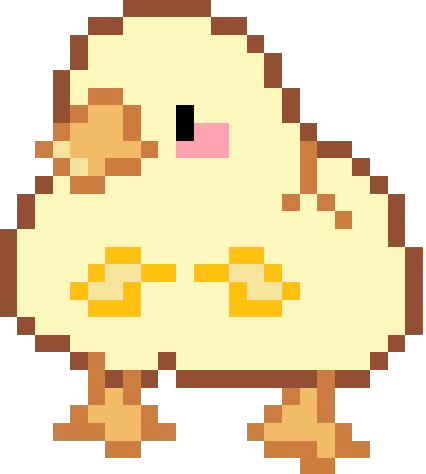
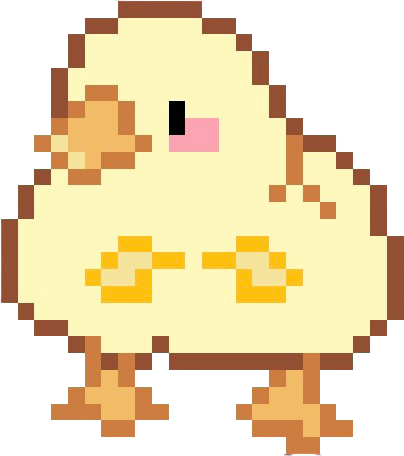
finished pg4

diff --git a/src/index.css b/src/index.css
@@ -19,6 +19,10 @@ body.pg2{
 body.pg3{
   background-color: #99d9ea;
 }
+
+body.pg4{
+  background-color: #F6AD78;
+}
 .window{
   z-index:10;
 }
@@ -149,6 +153,22 @@ body.pg3{
   text-align: center; /* Ensures text inside is also centered */
 }
 
+#opening-gift-label4 {
+  position: absolute;
+  display: none;
+  top: 190px;
+  left: 50%;
+  transform: translateX(-50%);
+  font-family: 'Pixelify Sans', sans-serif;
+  font-size: 25px;
+  width: 250px;
+  word-wrap: break-word; 
+  white-space: normal;
+  text-align: center; /* Ensures text inside is also centered */
+}
+
+
+
 #bday-ma-label {
   position: absolute;
   display: block;
@@ -161,6 +181,33 @@ body.pg3{
   width: 300px;
   text-align: center; /* Ensures text inside is also centered */
 }
+
+#pg4-label1 {
+  position: absolute;
+  display: block;
+  top: 55px;
+  left: 51%;
+  transform: translateX(-50%);
+  font-family: 'Pixelify Sans', sans-serif;
+  font-size: 35px;
+  font-weight: bold;
+  width: 350px;
+  text-align: center; /* Ensures text inside is also centered */
+}
+
+#pg4-label2 {
+  position: absolute;
+  display: none;
+  top: 55px;
+  left: 51%;
+  transform: translateX(-50%);
+  font-family: 'Pixelify Sans', sans-serif;
+  font-size: 35px;
+  font-weight: bold;
+  width: 350px;
+  text-align: center; /* Ensures text inside is also centered */
+}
+
 
 #next2 {
   position: absolute;
@@ -207,6 +254,30 @@ body.pg3{
   font-size: 25px;
   transition: transform 0.2s ease-in-out;
  
+}
+
+#pg4-gift {
+  position: absolute;
+  top: 190px;
+  left: 50%;
+  transform: translateX(-50%);
+  background-color: #B0305CFF;
+  border: 1px solid #000000;
+  border-radius:1ch;
+  border-width: 1mm;
+  color: black;
+  padding: 5px 25px;
+  cursor: pointer;
+  font-family: 'Pixelify Sans', sans-serif;
+  font-size: 25px;
+  transition: opacity 0.5s ease-in-out, transform 0.3s ease-in-out;
+  opacity: 0;  /* Initially hidden */
+}
+
+#pg4-gift.show {
+  opacity: 1;
+  transform: translateX(-50%) scale(1.1); /* Slight zoom effect */
+  pointer-events: auto; /* Enable clicks when visible */
 }
 
 .pulsing {
@@ -270,9 +341,10 @@ body.pg3{
 
 @keyframes bigChickAnimation {
   0%   { content: url("./assets/start/bigchick/bigchick1.png"); opacity: 1;}
-  25%  { content: url("./assets/start/bigchick/bigchick2.png"); opacity: 1;}
-  50%   { content: url("./assets/start/bigchick/bigchick3.png"); opacity: 1;}
-  75%  { content: url("./assets/start/bigchick/bigchick5.png"); opacity: 1;}
+  20%  { content: url("./assets/start/bigchick/bigchick2.png"); opacity: 1;}
+  40%   { content: url("./assets/start/bigchick/bigchick3.png"); opacity: 1;}
+  60%  { content: url("./assets/start/bigchick/bigchick4.png"); opacity: 1;}
+  80%  { content: url("./assets/start/bigchick/bigchick5.png"); opacity: 1;}
   100%  { content: url("./assets/start/bigchick/bigchick1.png"); opacity: 1;}
 
 }
@@ -353,6 +425,8 @@ body.pg3{
 
 }
 
+
+
 @keyframes giftOpeningAnimation {
   0%   { content: url("./assets/pg2/giftbox/gift1.png"); opacity: 1;}
   25%  { content: url("./assets/pg2/giftbox/gift2.png"); opacity: 1;}
@@ -363,7 +437,29 @@ body.pg3{
 
 
 
+#snoopy-animation {
+  width: 250px;  
+  height: 200px;
+  position: absolute;
+  bottom: 50px;
+  left: 2px;
+  animation: snoopyWalk 3s steps(5) infinite, moveForward 10s linear forwards;
+  opacity: 1;
+}
 
+@keyframes snoopyWalk {
+  0%   { content: url("./assets/pg4/snoopy/snoopy1.png"); }
+  25%  { content: url("./assets/pg4/snoopy/snoopy2.png"); }
+  50%  { content: url("./assets/pg4/snoopy/snoopy3.png"); }
+  75%  { content: url("./assets/pg4/snoopy/snoopy4.png"); }
+  100% { content: url("./assets/pg4/snoopy/snoopy1.png"); }
+}
+
+@keyframes moveForward {
+  0% { left: 1%; opacity: 1; }
+  90% { opacity: 1; } /* Keeps Snoopy visible until near the end */
+  100% { left: 80%; opacity: 0; } /* Fades out at the end */
+}
 
 #next-btn {
   position: absolute;
@@ -417,13 +513,38 @@ body.pg3{
   pointer-events: auto; /* Enable clicks when visible */
 }
 
-#next4{
+/* #next5{
   position: absolute;
   top:30px;
   left:10px;
+} */
+
+#next5 {
+  position: absolute;
+  top: 250px;
+  left: 50%;
+  transform: translateX(-50%);
+  background-color: #B0305CFF;
+  border: 1px solid #000000;
+  border-width: 1mm;
+  border-radius:1ch;
+  color: black;
+  padding: 5px 25px;
+  cursor: pointer;
+  font-family: 'Pixelify Sans', sans-serif;
+  font-size: 25px;
+  transition: opacity 0.5s ease-in-out, transform 0.3s ease-in-out;
+  opacity: 0;  /* Initially hidden */
+  pointer-events: none; /* Prevent clicks when hidden */
 }
 
-#go-back2{
+#next5.show {
+  opacity: 1;
+  transform: translateX(-50%) scale(1.1); /* Slight zoom effect */
+  pointer-events: auto; /* Enable clicks when visible */
+}
+
+#go-back3{
   position: absolute;
   top:10px;
   left:10px;

diff --git a/src/render.js b/src/render.js
@@ -8,9 +8,13 @@ document.addEventListener('DOMContentLoaded', async () => {
 
     const next3 = document.getElementById("next3");
     const next4 = document.getElementById("next4-btn");
+    const next5 = document.getElementById("next5")
+    const next6 = document.getElementById("next6")
     const goBack1 = document.getElementById("go-back1");
     const goBack2 = document.getElementById("go-back2");
     const goBack3 = document.getElementById("go-back3");
+    const goBack4 = document.getElementById("go-back4");
+
     const giftButton = document.getElementById("pg2-gift");
     const giftLabel = document.getElementById("opening-gift-label");
 
@@ -44,14 +48,23 @@ document.addEventListener('DOMContentLoaded', async () => {
         "./assets/start/bigchick/bigchick1.png",
         "./assets/start/bigchick/bigchick2.png",
         "./assets/start/bigchick/bigchick3.png",
+        "./assets/start/bigchick/bigchick4.png",
         "./assets/start/bigchick/bigchick5.png",
 
+    ];
+    const imagePaths6 = [
+        "./assets/pg4/snoopy/snoopy1.png",
+        "./assets/pg4/snoopy/snoopy2.png",
+        "./assets/pg4/snoopy/snoopy3.png",
+       "./assets/pg4/snoopy/snoopy3.png",
     ];
     const preloadedImages = [];
     const preloadedImages2 = [];
     const preloadedImages3 = [];
     const preloadedImages4 = [];
     const preloadedImages5 = [];
+    const preloadedImages6 = [];
+
 
 
 
@@ -93,10 +106,15 @@ document.addEventListener('DOMContentLoaded', async () => {
 
     if (next4) {
         next4.addEventListener("click", () => {
-            window.electron.send("load-final");
+            window.electron.send("load-pg4");
         });
     }
 
+    if(next5){
+        next5.addEventListener("click",()=>{
+            window.electron.send("load-pg5")
+        })
+    }
     if (goBack1) {
         goBack1.addEventListener("click", () => {
             window.electron.send("load-index");
@@ -112,6 +130,12 @@ document.addEventListener('DOMContentLoaded', async () => {
     if (goBack3) {
         goBack3.addEventListener("click", () => {
             window.electron.send("load-pg3");
+        });
+    }
+
+    if (goBack4) {
+        goBack4.addEventListener("click", () => {
+            window.electron.send("load-pg4");
         });
     }
 
@@ -155,6 +179,11 @@ document.addEventListener('DOMContentLoaded', async () => {
         img.src = src;
         preloadedImages5.push(img);
     });
+    imagePaths6.forEach((src) => {
+        const img = new Image();
+        img.src = src;
+        preloadedImages6.push(img);
+    });
     
 
 
@@ -180,6 +209,51 @@ document.addEventListener('DOMContentLoaded', async () => {
         console.log("Not on pg3.html, skipping typeEffect.");
     }
 
+    if (window.location.pathname.includes("pg4.html")) {
+        console.log("On pg4.html, running typeEffect...");
+
+        const label1 = document.getElementById("pg4-label1");
+
+        if (label1) {
+            const text = "huh? what's this ? looks like snoopy has a message !";
+            label1.textContent = "";
+            setTimeout(() => typeEffect(text, label1, 150), 500);
+        } else {
+            console.error("Error: pg4-label1 not found on pg4.html!");
+        }
+        
+        const label2 = document.getElementById("pg4-label2");
+        setTimeout( ()=>{
+            label1.style.display= "none"
+            if (label2) {
+                const text = "hmm... it seems like we have a gift for someone else too !";
+                label2.textContent = "";
+                setTimeout(() => typeEffect(text, label2, 150), 500);
+            }
+            
+        },10000)
+
+        const pg4Gift = document.getElementById("pg4-gift");
+        setTimeout(()=>{
+            pg4Gift.classList.add("show");
+            pg4Gift.classList.add("pulsing");
+        },20000);
+        
+        const giftLabel4 = document.getElementById("opening-gift-label4");
+        pg4Gift.addEventListener("click",()=>{
+            // pg4Gift.style.display="none";
+            pg4Gift.classList.remove("show");
+
+            document.getElementById("gift-opening-animation").style.display = "block"; 
+            
+            typeEffect("opening gift...", giftLabel4, 150);
+            setTimeout( ()=>{
+                document.getElementById('next5').classList.add("show");
+            },2300);
+        })
+    } else {
+        console.log("Not on pg4.html, skipping typeEffect.");
+    }
 
     if (window.location.pathname.includes("pg2.html")) {
     giftButton.addEventListener("click", () => {
@@ -192,6 +266,7 @@ document.addEventListener('DOMContentLoaded', async () => {
         },2300);
     });
 
+    
     
     
     giftButton.classList.add("pulsing");

diff --git a/src/pg4.html b/src/pg4.html
@@ -1,0 +1,25 @@
+<!DOCTYPE html>
+<html>
+  <head>
+    <meta charset="UTF-8" />
+    <title>Hello World!</title>
+    <link rel="stylesheet" href="index.css" />
+    <script defer  src = "render.js"></script>
+  </head>
+  <body class="pg4">
+    <label id="pg4-label1">huh? what's this ? looks like snoopy has a message !</label>
+    <label id="pg4-label2">hmm... it seems like we have a gift for someone else too !</label>
+    <button id="pg4-gift">open gift ?</button>
+    <img id="gift-opening-animation" alt="Gift Opening Animation">
+    <label id="opening-gift-label4"> opening gift...</label>
+    <button id="next5">find out..!</button>
+
+    <div class="window">
+        <div class="window-controls">
+            <img src="./assets/pg4/minimise4.png" alt="Minimize" id="minimize-btn">
+            <img src="./assets/pg4/close4.png" alt="Close" id="close-btn">
+        </div>
+        <img id="snoopy-animation" alt="Snoopy Animation">
+    </div>
+  </body>
+</html>

diff --git a/src/pg5.html b/src/pg5.html
@@ -1,0 +1,16 @@
+<!DOCTYPE html>
+<html>
+  <head>
+    <meta charset="UTF-8" />
+    <title>Hello World!</title>
+    <link rel="stylesheet" href="index.css" />
+    <script defer  src = "render.js"></script>
+  </head>
+  <body>
+    <label>hbd papa</label>
+    <button id="next5">next...</button>
+    <button id="go-back4">go back...</button>
+    <button id="minimize-btn">-</button>
+    <button id="close-btn">X</button>
+  </body>
+</html>

diff --git a/src/index.js b/src/index.js
@@ -56,6 +56,14 @@ ipcMain.on("load-pg3", () => {
     mainWindow.loadFile(path.join(__dirname, "pg3.html"));
 });
 
+ipcMain.on("load-pg4", () => {
+  mainWindow.loadFile(path.join(__dirname, "pg4.html"));
+});
+
+ipcMain.on("load-pg5", () => {
+  mainWindow.loadFile(path.join(__dirname, "pg5.html"));
+});
+
 ipcMain.on("load-final", () => {
     mainWindow.loadFile(path.join(__dirname, "final.html"));
 });
